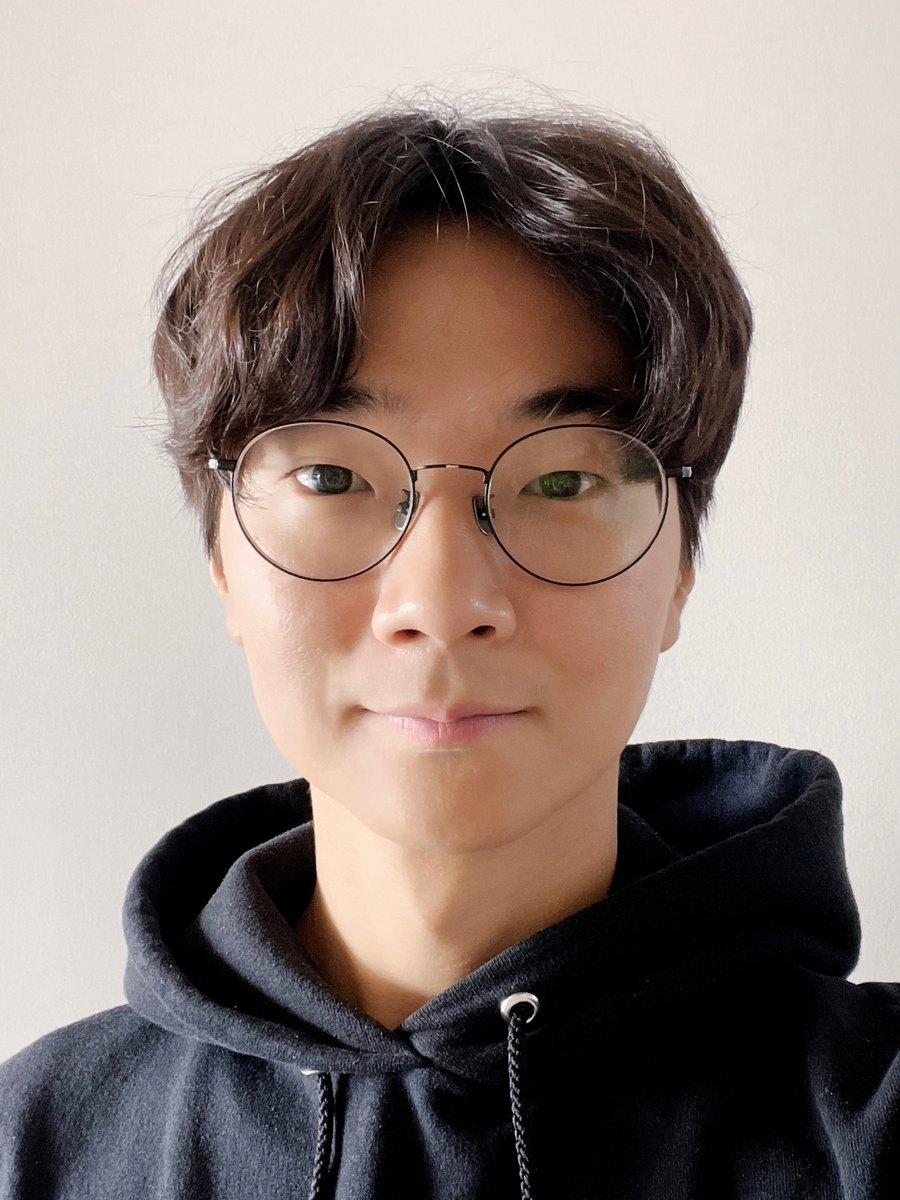
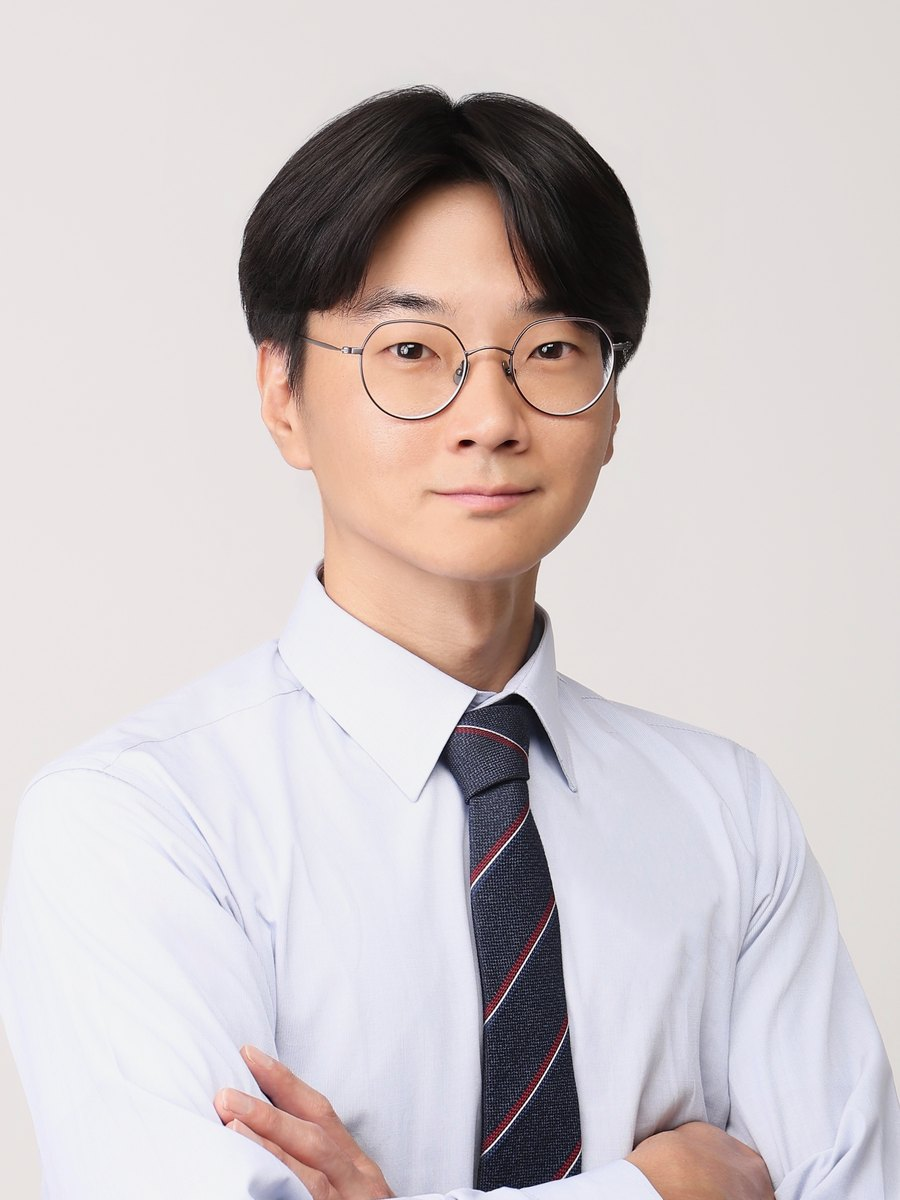
Update PI profile: new photo, office/lab addresses, profile links
- Google Scholar, ORCID, LinkedIn links with brand icons and colors
- Hero title in IBM Plex Sans

diff --git a/src/content.config.ts b/src/content.config.ts
@@ -11,7 +11,8 @@ const team = defineCollection({
     role: z.string(),
     position: z.array(z.string()).optional(), // 이름 아래 직위 (줄마다 1개)
     email: z.string().optional(),
-    address: z.string().optional(),
+    office: z.string().optional(), // 교수실 주소
+    lab: z.string().optional(), // 실험실 주소
     phone: z.string().optional(),
     photo: z.string().optional(), // 예: /images/people/jiheon-kim.jpg
     joined: z.coerce.date().optional(),

diff --git a/src/content/team/pi/jiheon-kim.md b/src/content/team/pi/jiheon-kim.md
@@ -7,20 +7,21 @@ position:
   - Assistant Professor
   - Department of Chemical and Biomolecular Engineering, KAIST
 email: jiheon.kim@kaist.ac.kr
-address: Bldg. W1-3, Rm. 3107, KAIST, 291 Daehak-ro, Yuseong-gu, Daejeon 34141, Republic of Korea
+office: Bldg. W1-3, Rm. 3107, KAIST, 291 Daehak-ro, Yuseong-gu, Daejeon 34141, Republic of Korea
+lab: Bldg. W14 (Lotte-KAIST R&D Center), Rm. 401B, KAIST, 291 Daehak-ro, Yuseong-gu, Daejeon 34141, Republic of Korea
 phone: "+82-42-350-3944"   # 예: "+82-42-350-0000" (비워두면 표시되지 않음)
 photo: /images/people/jiheon-kim.jpg
-# 아이콘 링크: icon 은 scholar / linkedin / orcid 중 하나. url 을 적으면 아이콘이 나타난다.
+# 링크 (아이콘 + 이름, 적은 순서대로 | 로 구분해 표시). icon 은 scholar / orcid / linkedin 중 하나.
 links:
   - icon: scholar
     label: Google Scholar
     url: https://scholar.google.com/citations?user=-csqx7IAAAAJ
-  # - icon: linkedin
-  #   label: LinkedIn
-  #   url: https://www.linkedin.com/in/아이디
-  # - icon: orcid
-  #   label: ORCID
-  #   url: https://orcid.org/0000-0000-0000-0000
+  - icon: orcid
+    label: ORCID
+    url: https://orcid.org/0000-0002-8681-6793
+  - icon: linkedin
+    label: LinkedIn
+    url: https://www.linkedin.com/in/jiheonkim10
 # 아래 항목(cv)은 PI 소개 아래에 표로 나온다. period(기간)와 text(내용)를 적고, 지도교수는 advisor 에 적는다(선택, 다음 줄에 기울임체로 표시).
 cv:
   - heading: Education
